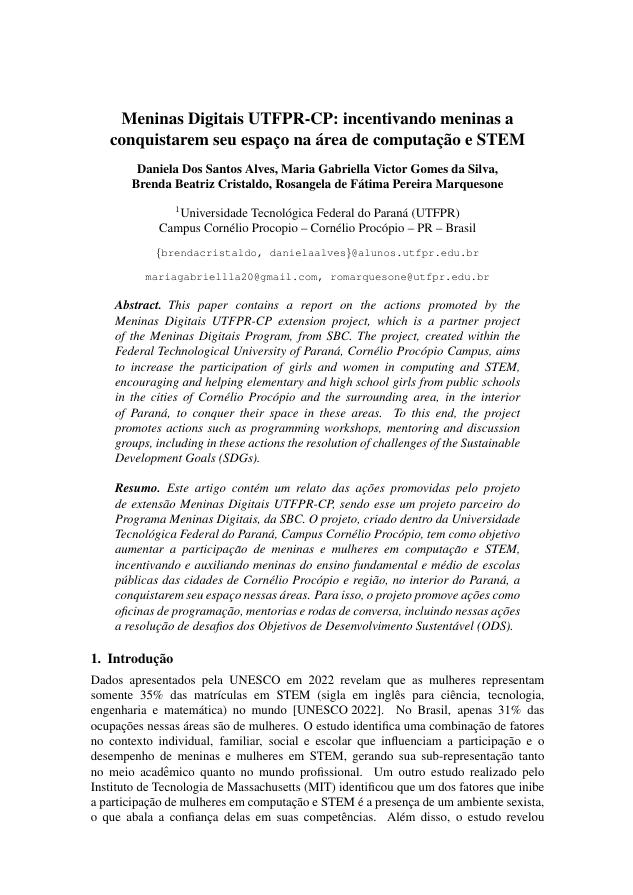
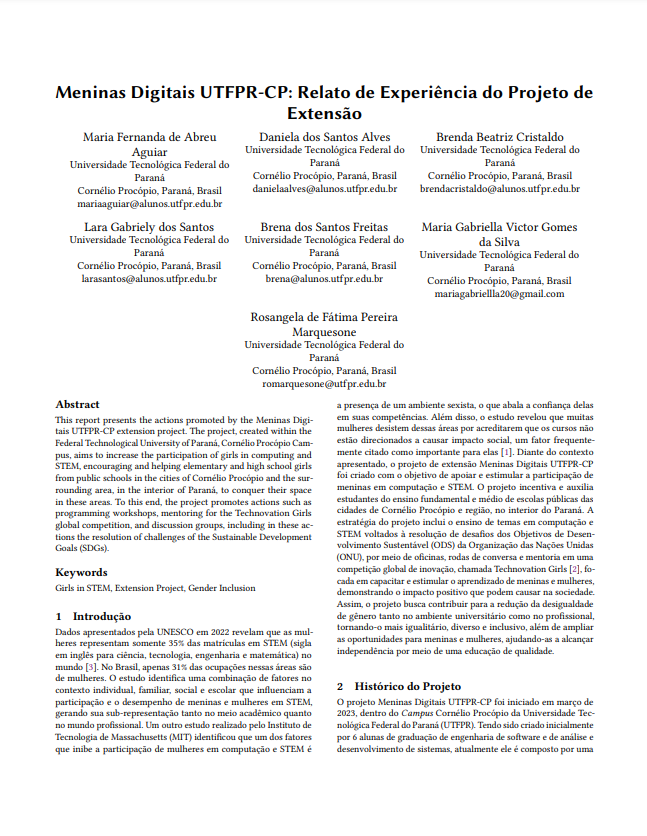
feat: update article content and improve CardArticles component

Changed region(s): [[0.06, 0.0933, 0.9305, 0.933]]

diff --git a/src/components/Macro/Articles/dataArticle.ts b/src/components/Macro/Articles/dataArticle.ts
@@ -1,33 +1,33 @@
-import articleIC from "../../../assets/Articles/artigoIC.png";
+import articleIC from "../../../assets/Articles/articleIC.png";
 import articleMD from "../../../assets/Articles/articleMD.png";
 
 const articles = {
   articleSbqs: [
     {
       id: 1,
-      titleArticle: "Scientific Initiation Article",
-      abstract:  `This article is not yet available...`,
+      titleArticle: "Updating a Systematic Literature Review on Knowledge Management Diagnostics in Software Development Organizations",
+      abstract:  `Context: In the rapidly evolving software development landscape, organizations face the constant challenge to work with the generated knowledge. Knowledge Management (KM) can be applied to efficiently manage the knowledge in software development organizations and ensure the product quality. However, although there are several KM approaches, carrying out a KM diagnosis in the organizations can identify which knowledge activities present the best cost-benefit for the organization. There are several KM approaches suggested in the literature. But it is quite relevant to carry out a KM diagnosis in the organizations to clearly identify which knowledge activities can present the best cost-benefit aspect within the organizations. A Systematic Literature Review (SLR) was published in 2018, presenting evidence on KM diagnosis in software development organizations. From an assessment of this SLR and the current state of this research topic, we noticed that the 2018’ SLR needed maintenance with an update. Objective: This study aims to update and extend the results produced in this previous SLR. Method: We conducted the 2018 SLR update, considering a new database, backward and forward snowballing, and more analyses of the extracted data. Results: From the SLR update, 16 new studies on KM diagnoses in Software Engineering context were identified. Conclusion: In Software Engineering, consolidated models continue lacking for applying KM diagnostics. Moreover, computational approaches to provide automated support in the diagnosis application and analysis are not quite well explored.`,
       imgArticle: articleIC,
       labelArticle: "Read the full article",
+      btLink: "https://dl.acm.org/doi/10.1145/3701625.3701652",
     },
   ],
   articleMD: [
     {
       id: 2,
-      titleArticle: "Meninas Digitais UTFPR-CP: Encouraging Girls to Conquer Their Space in the Field of Computing and STEM",
-      abstract: `This paper contains a report on the actions promoted by the
-                        Meninas Digitais UTFPR-CP extension project, which is a partner project
-                        of the Meninas Digitais Program, from SBC. The project, created within the
-                        Federal Technological University of Parana, Cornélio Procópio Campus, aims
-                        to increase the participation of girls and women in computing and STEM,
-                        encouraging and helping elementary and high school girls from public schools
-                        in the cities of Cornélio Procópio and the surrounding area, in the interior  
-                        of Paraná, to conquer their space in these areas. To this end, the project  
-                        promotes actions such as programming workshops, mentoring and discussion
-                        groups, including in these actions the resolution of challenges of the Sustainable
-                        Development Goals (SDGs).`,
+      titleArticle: "Digital Girls UTFPR-CP: Experience Report of the Extension Project",
+      abstract: `This report presents the actions promoted by the Meninas Digitais UTFPR-CP extension project. The project, created within the
+Federal Technological University of Paraná, Cornélio Procópio Campus, aims to increase the participation of girls in computing and
+STEM, encouraging and helping elementary and high school girls
+from public schools in the cities of Cornélio Procópio and the surrounding area, in the interior of Paraná, to conquer their space
+in these areas. To this end, the project promotes actions such as
+programming workshops, mentoring for the Technovation Girls
+global competition, and discussion groups, including in these actions the resolution of challenges of the Sustainable Development
+Goals (SDGs).
+`,
       imgArticle: articleMD,
       labelArticle: "Read the full article",
+      btLink: "https://periodicos.univali.br/index.php/acotb/article/view/21111",
     },
   ],
 };

diff --git a/src/components/Macro/CardProject/index.tsx b/src/components/Macro/CardProject/index.tsx
@@ -7,12 +7,11 @@ interface CardProjectProps {
   id: number;
   title: string;
   description: string;
-  urlSite: string;
+  urlSite?: string;
   linkRep: string;
-  technology: { logo: string; desclogo: string }[];
 }
 
-export const CardProject = ({ id, title, description, urlSite, linkRep, technology }: CardProjectProps) => {
+export const CardProject = ({ id, title, description, urlSite, linkRep }: CardProjectProps) => {
   const isEven = id % 2 === 0;
 
   return (
@@ -26,28 +25,11 @@ export const CardProject = ({ id, title, description, urlSite, linkRep, technolo
       >
         <h1>{title}</h1>
         <p>{description}</p>
-        <p>The technologies used were:</p>
-        <div
-          className={style.technologies}
-
-        >
-          {technology.map((tech) => (
-            <div
-              className={style.tech}
-              key={tech.desclogo}
-
-            >
-              <img src={tech.logo} alt={`${tech.desclogo} logo`} />
-              <span>{tech.desclogo}</span>
-            </div>
-          ))}
-        </div>
 
         <div
           className={style.btLinks}
 
         >
-          <p>To learn more, visit:</p>
           <div
             className={style.btComponent}
 
@@ -60,14 +42,16 @@ export const CardProject = ({ id, title, description, urlSite, linkRep, technolo
               label="GitHub"
               onClick={() => console.log('GitHub clicked')}
             />
-            <Button
-              btLink={urlSite}
-              className='aProjects'
-              btclassName="btProjects"
-              image={web}
-              label="Site"
-              onClick={() => console.log('WebSite clicked')}
-            />
+            {urlSite && (
+              <Button
+                btLink={urlSite}
+                className='aProjects'
+                btclassName="btProjects"
+                image={web}
+                label="Site"
+                onClick={() => console.log('WebSite clicked')}
+              />
+            )}
           </div>
         </div>
       </div>

diff --git a/src/components/Macro/Articles/index.tsx b/src/components/Macro/Articles/index.tsx
@@ -5,7 +5,7 @@ import styles from "./Articles.module.scss";
 const Articles = () => {
     return (
         <div id="articles">
-            <h1 className={styles.titleArticle} >My Articles.</h1>
+            <h1 className={styles.titleArticle} >Papers.</h1>
             {articles.articleSbqs.map(dataArticle => (
                 <CardArticles
                     key={dataArticle.id} 
@@ -14,6 +14,7 @@ const Articles = () => {
                     abstract={dataArticle.abstract}
                     imgArticle={dataArticle.imgArticle}
                     labelArticle={dataArticle.labelArticle}
+                    btLink={dataArticle.btLink}
                     
                 />
             ))}
@@ -25,6 +26,7 @@ const Articles = () => {
                     abstract={dataArticle.abstract}
                     imgArticle={dataArticle.imgArticle}
                     labelArticle={dataArticle.labelArticle}
+                    btLink={dataArticle.btLink}
                     reverse={true}
                 />
             ))}

diff --git a/src/components/Macro/CardArticles/index.tsx b/src/components/Macro/CardArticles/index.tsx
@@ -8,10 +8,11 @@ interface CardArticlesProps {
     abstract: string;
     imgArticle: string;
     labelArticle: string;
+    btLink: string;
     reverse?: boolean;
 }
 
-export const CardArticles = ({ titleArticle, abstract, imgArticle, labelArticle, reverse }: CardArticlesProps) => {
+export const CardArticles = ({ titleArticle, abstract, imgArticle, labelArticle, btLink, reverse }: CardArticlesProps) => {
     return (
         <div className={`${style.container} ${reverse ? style.reverse : ''}`}>
             <div className={style.conteudo_img}>
@@ -24,7 +25,7 @@ export const CardArticles = ({ titleArticle, abstract, imgArticle, labelArticle,
                 <h2>{titleArticle}</h2>
                 <p>{abstract}</p>
                 <Button
-                    btLink="/not-public"
+                    btLink={btLink}
                     className="aArticles"
                     btclassName="btArticles"
                     image={iconRead}

diff --git a/src/components/Macro/CardProject/CardProject.module.scss b/src/components/Macro/CardProject/CardProject.module.scss
@@ -21,7 +21,8 @@
     width: 60rem;
     height: 38rem;
     border-radius: 2rem;
-    background-color: #f0ecf9;
+    background-color: #cfc8e0;
+    gap: 1.5rem;
 }
 
 .textProjects h1 {
@@ -42,29 +43,6 @@
     align-items: center;
 }
 
-.technologies {
-    display: flex;
-}
-
-.tech {
-    display: flex;
-    flex-direction: column;
-    align-items: center;
-    justify-content: center;
-    margin: 1rem 3rem 0 0;
-}
-
-.tech img {
-    width: 1.8rem;
-    height: 1.8rem;
-}
-
-.tech span {
-    color: $text;
-    font-size: 1rem;
-    margin-top: 0.5rem;
-    font-weight: bold;
-}
 
 @media (max-width: 1440px) {
 
